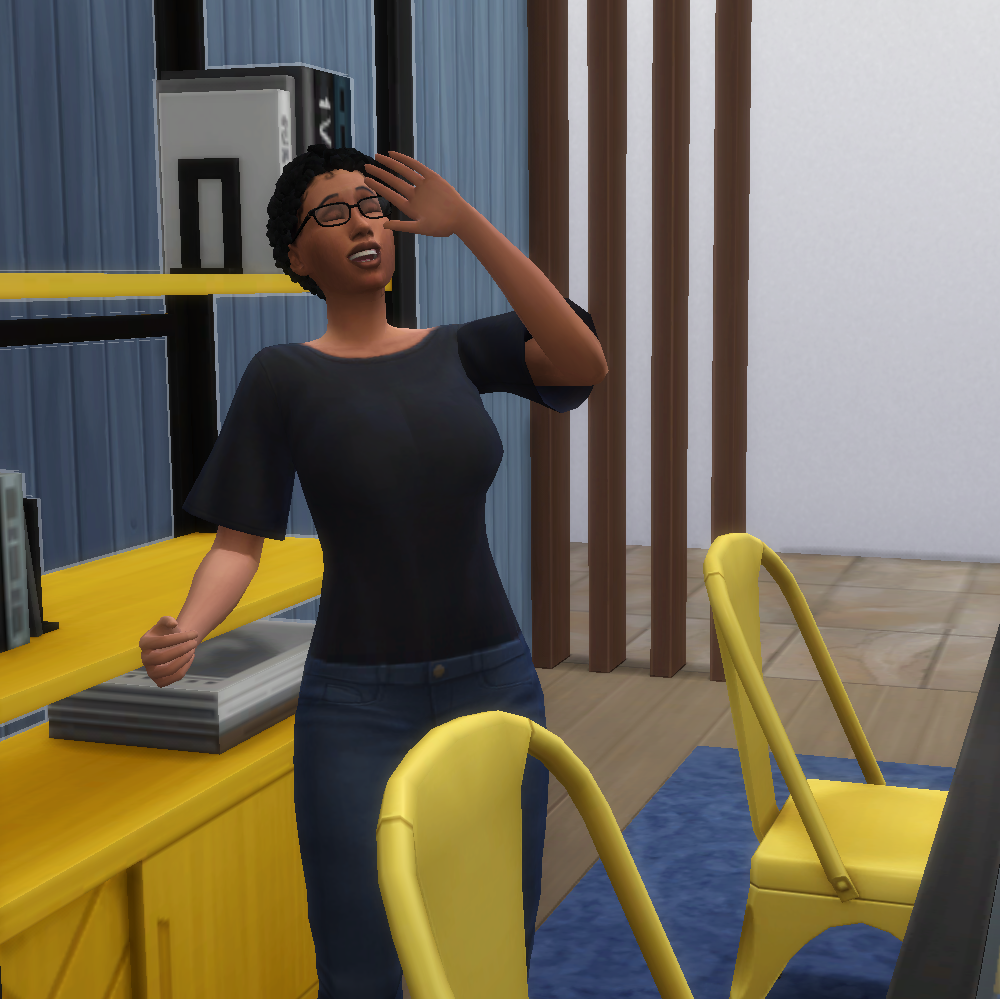
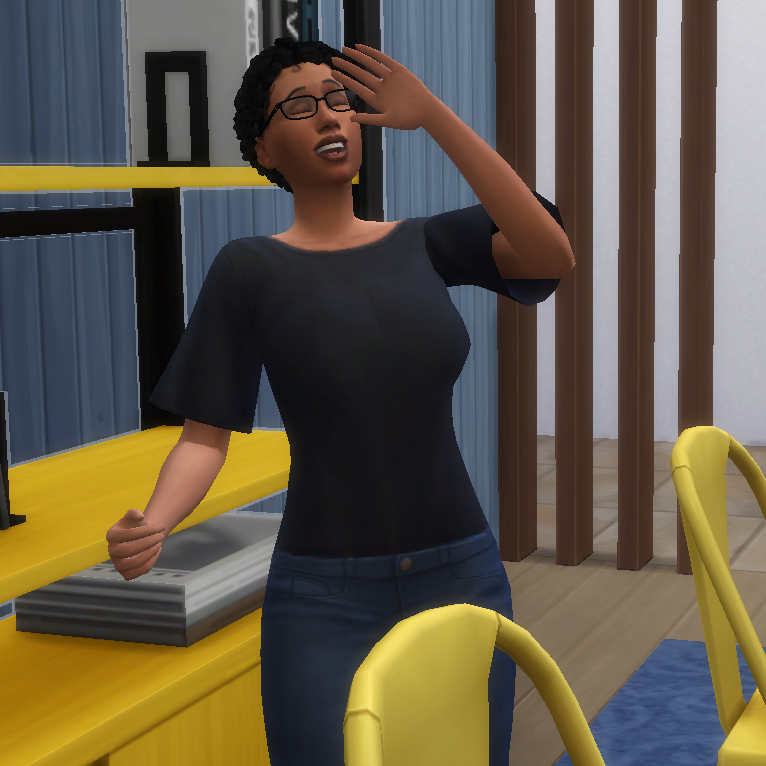
Rendered intro page, cleaned up some file organization

diff --git a/js/data.js b/js/data.js
@@ -1,0 +1,204 @@
+const baseURL = 'http://127.0.0.1:8080/';
+
+const DATA = {
+  questions: [
+    {
+      question: 'What year did the original Sims game come out?',
+      answers: 
+      [
+        "1998",
+        "2000",
+        "2002",
+        "2004"
+      ],
+      correctAnswer: "2000",
+      image: {
+        url: new URL('/images/01-Sims-1.jpg', baseURL),
+        alt: "Screenshot from Sims 1 - sims in a living room",
+      }
+    },
+    {
+      question: "What type of money do The Sims use?",
+      answers:
+      [
+        "Kachings",
+        "Sim Bucks",
+        "Simcoins",
+        "Simoleons"
+      ],
+      correctAnswer: "Simoleons",
+      image: 
+      {
+        url: new URL('/images/02-Sim-Money-Bag.jpg', baseURL),
+        alt: "Sack of Sim money",
+      }
+    },
+    {
+      question: "What was the name of the neighborhood that was added with The Sims 2: Apartment Life?",
+      answers: 
+      [
+        "Belladonna Cove",
+        "Veronaville",
+        "Riverblossom Hills",
+        "Desiderata Valley"
+      ],
+      correctAnswer: "Belladonna Cove",
+      image:
+      {
+        url: new URL('/images/03-Sims-2-World.jpg', baseURL),
+        alt: "Aerial view of a Sims 2 World",
+      }
+    },
+    {
+      question: "What is the small diamond that hovers over a sim's head called?",
+      answers: 
+      [
+        "Blingometer",
+        "Life Diamond",
+        "Plumbob",
+        "It doesn't have a name",
+      ],
+      correctAnswer: "Plumbob",
+      image: 
+      {
+        url: new URL('/images/04-Sims-Diamond.jpg', baseURL),
+        alt: "Toddler Sim talking to her babysitter.",
+      }
+    },
+    {
+      question: "What is The Sims' word for hello?",
+      answers:
+      [
+        "Sha",
+        "Dag Dag",
+        "Nooboo",
+        "Sul Sul",
+      ],
+      correctAnswer: "Sul Sul",
+      image: 
+      {
+        url: new URL('/images/05-Sims-Greeting.jpg', baseURL),
+        alt: "Two Sims waving at each other."
+      }
+    },
+    {
+      question: "What is the name of the name of the world that was added with The Sims 3: Late Night?",
+      answers: 
+      [
+        "Moonlight Falls",
+        "Bridgeport",
+        "Roaring Heights",
+        "Twinbrook"
+      ],
+      correctAnswer: "Bridgeport",
+      image:
+      {
+        url: new URL('/images/06-Sims-3-World.jpg', baseURL),
+        alt: "Aerial view of a Sims 3 World."
+      }
+    },
+    {
+      question: "Which is the only place a sim cannot WooHoo in the Sims 4?",
+      answers: 
+      [
+        "Pool",
+        "The Backyard Observatory",
+        "Waterfall",
+        "Pile Of Leaves",
+      ],
+      correctAnswer: "Pool",
+      image: 
+      {
+        url: new URL('/images/07-Sims-WooHoo.jpg', baseURL),
+        alt: "Sims in mid 'WooHoo' in bed."
+      }
+    },
+    {
+      question: "What is the Sims language called?",
+      answers: 
+      [
+        "Minionese",
+        "Simspeak",
+        "Danish",
+        "Simlish",
+      ],
+      correctAnswer: "Simlish",
+      image: 
+      {
+        url: new URL('/images/08-Sims-Talking.jpg', baseURL),
+        alt: "Sim couple arguing over pancakes."
+      }
+    },
+    {
+      question: "What is the max number of sims that can live in a household?",
+      answers: 
+      [
+        "6",
+        "8",
+        "10",
+        "There is no max!"
+      ],
+      correctAnswer: "8",
+      image: 
+      {
+        url: new URL('images/09-Sims-Family.jpg',baseURL),
+        alt: "A family of five Sims sitting at a dining table"
+      }
+    },
+    {
+      question: "What is the name of the world added with The Sims 4: City Living?",
+      answers: 
+      [
+        "Downtown",
+        "Del Sol Valley",
+        "San Myshuno",
+        "Windenburg"
+      ],
+      correctAnswer: "San Myshuno",
+      image: 
+      {
+        url: new URL('/images/10-Sims-4-World.jpg', baseURL),
+        alt: "Aerial view of a Sims 3 World."
+      }
+    }    
+  ],
+  results: [
+    {
+      // Score of 7 - 10
+      great: 
+      {
+        phrase: "Congrats! Clearly you've spent at least a year's worth of hours on this game!",
+        image: {
+          url: new URL('/images/my_sims_pics/02-me_selfie_sim.png', baseURL),
+          alt: "Sim version of me taking a selfie",
+        }
+      }
+    },
+    {
+      // Score of 4 - 6
+      good: 
+      {
+        phrase: "OK, so you played at least once in the last decade.",
+        image:
+        {
+          url: new URL('/images/my_sims_pics/03-me_laughing_sim.png', baseURL),
+          alt: "Sim version of me laughing."
+        }
+      }
+    },
+    {
+      // Score of 3 or less
+      bad:
+      {
+        phrase: "Do you know what a Sim is?........",
+        image:
+        {
+          url: new URL('/images/my_sims_pics/04-me_confused_sim.png', baseURL),
+          alt: "Sim version of me looking annoyed and confused."
+        }
+      }
+    }
+  ],
+  currentScore: 0,
+  quizStopped: true,
+}

diff --git a/index.html b/index.html
@@ -1,5 +1,6 @@
 <!DOCTYPE html>
 <html lang="en">
+
 <head>
   <meta charset="UTF-8">
   <meta name="viewport" content="width=device-width, initial-scale=1.0">
@@ -7,21 +8,24 @@
   <link rel="stylesheet" href="css/normalize.min.css">
   <link rel="stylesheet" href="css/index.css">
 </head>
+
 <body>
-  <h1>Sims Quiz - Mobile Wireframe</h1>
+  <header>
+    <h1>
+      <a href="/">
+        <img id="logo" src="/images/Sims_logo_green.png" alt="The Sims">
+      </a> 
+      <span>Quiz!</span>
+    </h1>
+  </header>
   <main>
-    <section class="js-quiz-intro">
-      <h2>How much do you know about the Sims?</h2>
-      <p>Take this short quiz to find out!</p>
-      <div class="featured-img">
-        <img src="https://via.placeholder.com/600?text=Image+of+smiling+sim" alt="Smiling Sim Woman">
-      </div>
-      <a class="quiz-nav" href="question-template.html">Start The Quiz!</a>
-    </section>
+    <section class="js-quiz-intro"></section>
   </main>
   <script src="https://code.jquery.com/jquery-3.5.1.min.js"
     integrity="sha256-9/aliU8dGd2tb6OSsuzixeV4y/faTqgFtohetphbbj0=" crossorigin="anonymous"></script>
-  <script src="data.js"></script>
-  <script src="index.js"></script>
+  <script src="/js/data.js"></script>
+  <script src="/js/templates.js"></script>
+  <script src="/js/index.js"></script>
 </body>
+
 </html>

diff --git a/js/index.js b/js/index.js
@@ -13,23 +13,30 @@ Use responsive design.
 */
 
 function renderQuiz() {
-  // This function is responsible for presenting the starting screen of the quiz
+  // check for quizStarted status
+  if (DATA.quizStopped){
+    $('.js-quiz-intro').html(generateQuizIntroTemplate());
+  }
+  // If quiz is not started, generate intro page
+  // If started, generate correct question
+  // If at the end, generate final page
   console.log(`renderQuiz ran`);
 }
 
 function handleStartQuizButton() {
-  // This function is responsible for generating and presenting the current question.
-  console.log(`handleStartQuizButton clicked`);
+  // start quiz
+  $('.js-quiz-intro').on ('click', '#js-start-quiz-button', function(event){
+    console.log(`handleStartQuizButton clicked`);
+  });
+  
 }
 
 function handleSubmitAnswerButton() {
   // This function is responsible for accepting user answer and presenting the result of the current question
-  console.log(`handleSubmitAnswerButton clicked`);
 }
 
 function handleNextQuestionButton() {
   // This function is responsible for moving the user to the next question, or to the final result if at the end of the quiz.
-  console.log(`handleNextQuestionButton clicked`);
 }
 
 function runQuiz() {

diff --git a/js/templates.js b/js/templates.js
@@ -1,0 +1,12 @@
+function generateQuizIntroTemplate(){
+  // when invoked, add the html intro template into DOM
+  return `
+    <h2>How much do you know about the Sims?</h2>
+    <p>Take this short quiz to find out!</p>
+    <div class="featured-img">
+      <img src="/images/my_sims_pics/01-me_computer.png"
+      alt = "Sim version of me at computer">
+    </div>
+    <a class="quiz-nav" id="js-start-quiz-button" href="#">Start The Quiz!</a>
+`;
+}

diff --git a/css/index.css b/css/index.css
@@ -3,16 +3,26 @@
   font-family: sans-serif;
 }
 
-main {
-  width: 96%;
-  margin: 0 auto;
-}
-
 h1,
 h2,
 h3,
 p {
   text-align: center;
+}
+
+header,
+main {
+  width: 96%;
+  margin: 0 auto;
+}
+
+header {
+  margin: 1.25rem auto;
+}
+
+#logo {
+  max-width: 100%;
+  height: 4rem;
 }
 
 .featured-img {
